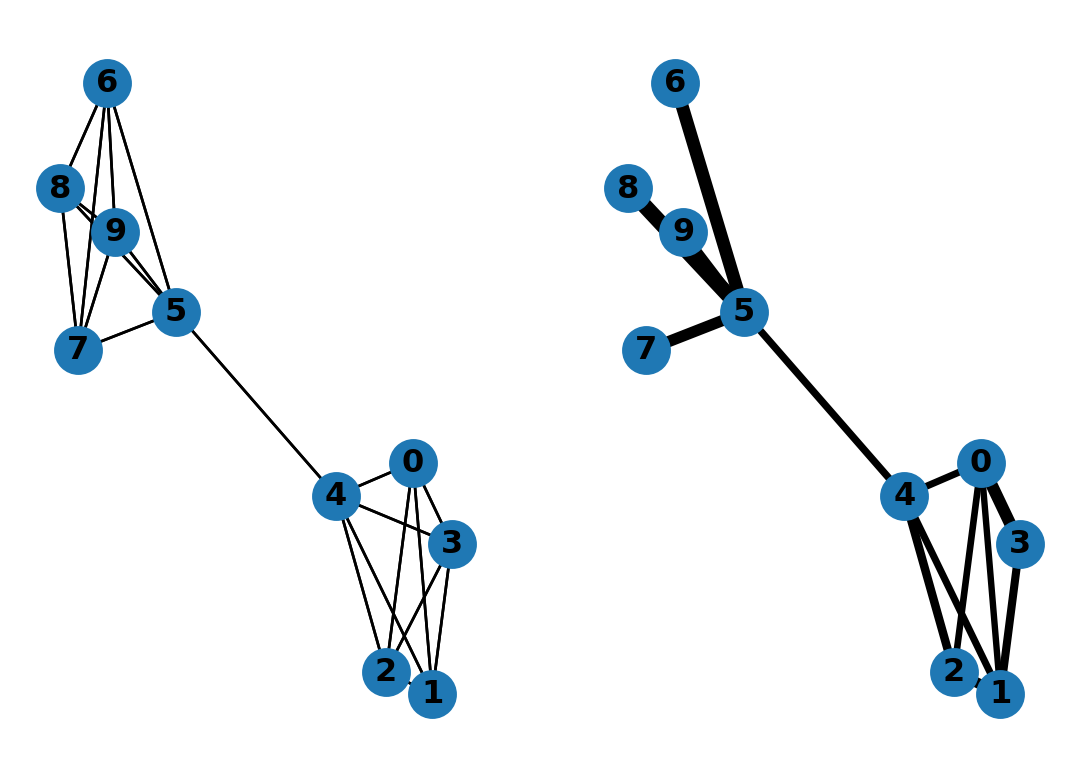
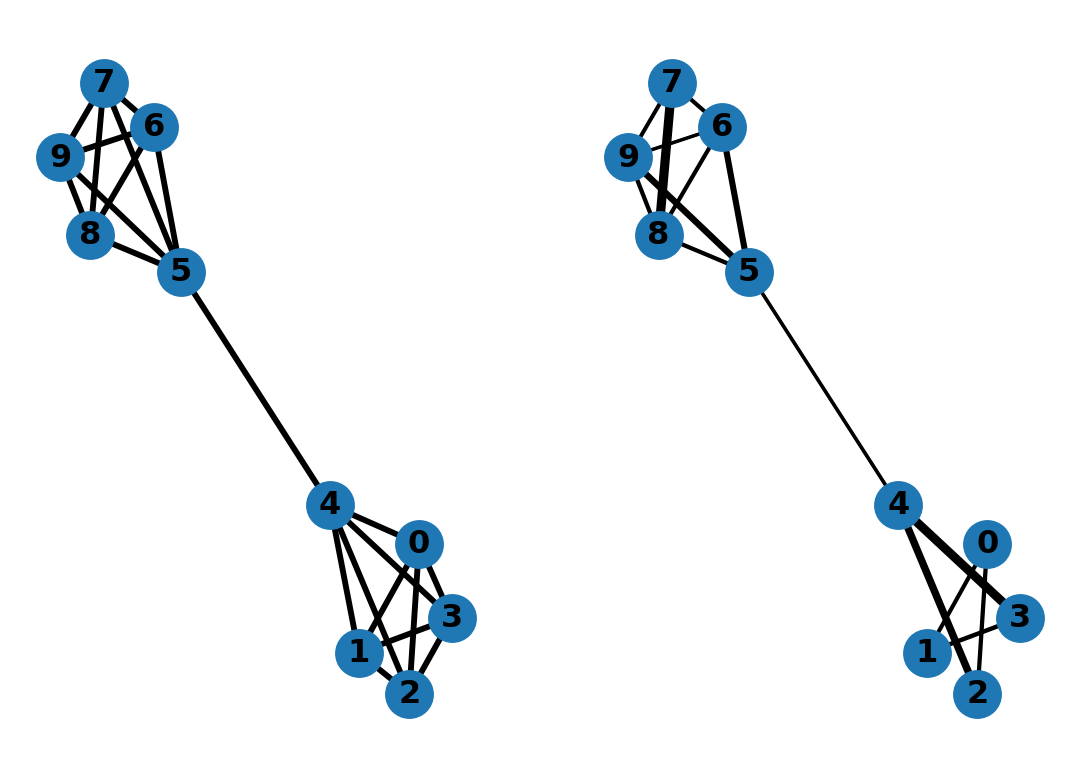
debug code - first correct output

diff --git a/docs/index.html b/docs/index.html
@@ -579,36 +579,70 @@ s \le U_A(v) = \frac{\Delta}{v^T \left((u' I - A)^{-2} - \Delta (u' I - A)^{-1}\
 <section id="experimental-details" class="level3">
 <h3 class="anchored" data-anchor-id="experimental-details">Experimental Details</h3>
 <p>We implemented the algorithm in Python and tested it on a set of graphs. Our package is available <a href="https://github.com/HamidrezaKmK/twice-ramanujan-sparsifiers">here</a> and <a href="#fig-barbell">Figure&nbsp;3</a> demonstrates the results of the algorithm on a barbell graph.</p>
-<div class="cell" data-execution_count="3">
+<div id="fig-barbell" class="quarto-figure quarto-figure-center anchored">
+<figure class="figure">
 <details>
 <summary>Code</summary>
 <div class="sourceCode cell-code" id="cb3"><pre class="sourceCode python code-with-copy"><code class="sourceCode python"><span id="cb3-1"><a href="#cb3-1" aria-hidden="true" tabindex="-1"></a><span class="co"># preliminariy steps to include the package</span></span>
 <span id="cb3-2"><a href="#cb3-2" aria-hidden="true" tabindex="-1"></a><span class="im">import</span> sys</span>
 <span id="cb3-3"><a href="#cb3-3" aria-hidden="true" tabindex="-1"></a><span class="im">import</span> math</span>
-<span id="cb3-4"><a href="#cb3-4" aria-hidden="true" tabindex="-1"></a>sys.path.append(<span class="st">'..'</span>)</span>
-<span id="cb3-5"><a href="#cb3-5" aria-hidden="true" tabindex="-1"></a></span>
-<span id="cb3-6"><a href="#cb3-6" aria-hidden="true" tabindex="-1"></a><span class="co"># importing the package</span></span>
-<span id="cb3-7"><a href="#cb3-7" aria-hidden="true" tabindex="-1"></a><span class="im">from</span> src.TwiceRamanujan <span class="im">import</span> TwiceRamanujan</span>
-<span id="cb3-8"><a href="#cb3-8" aria-hidden="true" tabindex="-1"></a></span>
-<span id="cb3-9"><a href="#cb3-9" aria-hidden="true" tabindex="-1"></a><span class="co"># get the laplacian of a barbell graph</span></span>
-<span id="cb3-10"><a href="#cb3-10" aria-hidden="true" tabindex="-1"></a>g<span class="op">=</span>nx.barbell_graph(<span class="dv">5</span>,<span class="dv">0</span>)</span>
-<span id="cb3-11"><a href="#cb3-11" aria-hidden="true" tabindex="-1"></a>d <span class="op">=</span> <span class="dv">2</span></span>
-<span id="cb3-12"><a href="#cb3-12" aria-hidden="true" tabindex="-1"></a>eps <span class="op">=</span> <span class="dv">2</span> <span class="op">*</span> math.sqrt(d) <span class="op">/</span> (d <span class="op">+</span> <span class="dv">1</span>)</span>
-<span id="cb3-13"><a href="#cb3-13" aria-hidden="true" tabindex="-1"></a><span class="co"># setup a twice-Ramanujan solver on the graph with d = 2</span></span>
-<span id="cb3-14"><a href="#cb3-14" aria-hidden="true" tabindex="-1"></a>tr <span class="op">=</span> TwiceRamanujan(g, d<span class="op">=</span><span class="dv">2</span>, verbose<span class="op">=</span><span class="dv">1</span>)</span>
-<span id="cb3-15"><a href="#cb3-15" aria-hidden="true" tabindex="-1"></a>sparsified_laplacian <span class="op">=</span> tr.sparsify()</span>
-<span id="cb3-16"><a href="#cb3-16" aria-hidden="true" tabindex="-1"></a></span>
-<span id="cb3-17"><a href="#cb3-17" aria-hidden="true" tabindex="-1"></a><span class="co"># draw both graphs</span></span>
-<span id="cb3-18"><a href="#cb3-18" aria-hidden="true" tabindex="-1"></a>tr.juxtapose()</span></code><button title="Copy to Clipboard" class="code-copy-button"><i class="bi"></i></button></pre></div>
+<span id="cb3-4"><a href="#cb3-4" aria-hidden="true" tabindex="-1"></a><span class="im">import</span> networkx <span class="im">as</span> nx</span>
+<span id="cb3-5"><a href="#cb3-5" aria-hidden="true" tabindex="-1"></a>sys.path.append(<span class="st">'..'</span>)</span>
+<span id="cb3-6"><a href="#cb3-6" aria-hidden="true" tabindex="-1"></a></span>
+<span id="cb3-7"><a href="#cb3-7" aria-hidden="true" tabindex="-1"></a><span class="co"># importing the package</span></span>
+<span id="cb3-8"><a href="#cb3-8" aria-hidden="true" tabindex="-1"></a><span class="im">from</span> src.TwiceRamanujan <span class="im">import</span> TwiceRamanujan</span>
+<span id="cb3-9"><a href="#cb3-9" aria-hidden="true" tabindex="-1"></a></span>
+<span id="cb3-10"><a href="#cb3-10" aria-hidden="true" tabindex="-1"></a><span class="co"># get the laplacian of a barbell graph</span></span>
+<span id="cb3-11"><a href="#cb3-11" aria-hidden="true" tabindex="-1"></a>graphs <span class="op">=</span> [nx.barbell_graph(<span class="dv">5</span>,<span class="dv">0</span>), nx.complete_graph(<span class="dv">7</span>)]</span>
+<span id="cb3-12"><a href="#cb3-12" aria-hidden="true" tabindex="-1"></a>ds <span class="op">=</span> [<span class="dv">2</span>, <span class="dv">3</span>]</span>
+<span id="cb3-13"><a href="#cb3-13" aria-hidden="true" tabindex="-1"></a></span>
+<span id="cb3-14"><a href="#cb3-14" aria-hidden="true" tabindex="-1"></a><span class="cf">for</span> g, d <span class="kw">in</span> <span class="bu">zip</span>(graphs, ds):</span>
+<span id="cb3-15"><a href="#cb3-15" aria-hidden="true" tabindex="-1"></a>  </span>
+<span id="cb3-16"><a href="#cb3-16" aria-hidden="true" tabindex="-1"></a>  <span class="co"># calculate epsilon according to d</span></span>
+<span id="cb3-17"><a href="#cb3-17" aria-hidden="true" tabindex="-1"></a>  eps <span class="op">=</span> <span class="dv">2</span> <span class="op">*</span> math.sqrt(d) <span class="op">/</span> (d <span class="op">+</span> <span class="dv">1</span>)</span>
+<span id="cb3-18"><a href="#cb3-18" aria-hidden="true" tabindex="-1"></a></span>
+<span id="cb3-19"><a href="#cb3-19" aria-hidden="true" tabindex="-1"></a>  <span class="co"># setup a twice-Ramanujan solver on the graph with d = 2</span></span>
+<span id="cb3-20"><a href="#cb3-20" aria-hidden="true" tabindex="-1"></a>  tr <span class="op">=</span> TwiceRamanujan(g, d<span class="op">=</span>d, verbose<span class="op">=</span><span class="dv">1</span>)</span>
+<span id="cb3-21"><a href="#cb3-21" aria-hidden="true" tabindex="-1"></a>  sparsified_laplacian <span class="op">=</span> tr.sparsify()</span>
+<span id="cb3-22"><a href="#cb3-22" aria-hidden="true" tabindex="-1"></a></span>
+<span id="cb3-23"><a href="#cb3-23" aria-hidden="true" tabindex="-1"></a>  <span class="co"># draw both graphs</span></span>
+<span id="cb3-24"><a href="#cb3-24" aria-hidden="true" tabindex="-1"></a>  tr.juxtapose()</span>
+<span id="cb3-25"><a href="#cb3-25" aria-hidden="true" tabindex="-1"></a></span>
+<span id="cb3-26"><a href="#cb3-26" aria-hidden="true" tabindex="-1"></a>  <span class="co"># verify</span></span>
+<span id="cb3-27"><a href="#cb3-27" aria-hidden="true" tabindex="-1"></a>  tr.verify(eps<span class="op">=</span>eps)</span></code><button title="Copy to Clipboard" class="code-copy-button"><i class="bi"></i></button></pre></div>
 </details>
 <div class="cell-output cell-output-display">
-<div id="fig-barbell" class="quarto-figure quarto-figure-center anchored">
+<div id="fig-barbell-1" class="quarto-figure quarto-figure-center anchored">
 <figure class="figure">
-<p><img src="index_files/figure-html/fig-barbell-output-1.png" width="540" height="389" class="figure-img"></p>
-<p></p><figcaption class="figure-caption">Figure&nbsp;3: The Twice-Ramanujan sparsifier in action, sparsifiying the barbel graph, edges with more strength correspond to larger weights.</figcaption><p></p>
+<p><img src="index_files/figure-html/fig-barbell-output-1.png" data-ref-parent="fig-barbell" width="540" height="389" class="figure-img"></p>
+<p></p><figcaption class="figure-caption">(a) Checking the algorithm on a barbell graph.</figcaption><p></p>
 </figure>
 </div>
 </div>
+<div class="cell-output cell-output-stdout">
+<pre><code>eps = 2sqrt(d)/(d+1) = 0.9428
+LHS (1 - eps) * L_G &lt;= L_H : we check the minimum eigenvalue of the difference:
+Min eigenvalue of [L_H - (1 - eps) L_G] = 0.00 &gt;= 0
+RHS L_H &lt;= (1 + eps) * L_G : we check the minimum eigenvalue of the difference:
+Min eigenvalue of [(1 + eps) L_G - L_H] = 0.00 &gt;= 0</code></pre>
+</div>
+<div class="cell-output cell-output-display">
+<div id="fig-barbell-2" class="quarto-figure quarto-figure-center anchored">
+<figure class="figure">
+<p><img src="index_files/figure-html/fig-barbell-output-3.png" data-ref-parent="fig-barbell" width="540" height="389" class="figure-img"></p>
+<p></p><figcaption class="figure-caption">(b) Checking the algorithm on a complete graph.</figcaption><p></p>
+</figure>
+</div>
+</div>
+<div class="cell-output cell-output-stdout">
+<pre><code>eps = 2sqrt(d)/(d+1) = 0.8660
+LHS (1 - eps) * L_G &lt;= L_H : we check the minimum eigenvalue of the difference:
+Min eigenvalue of [L_H - (1 - eps) L_G] = -0.00 &gt;= 0
+RHS L_H &lt;= (1 + eps) * L_G : we check the minimum eigenvalue of the difference:
+Min eigenvalue of [(1 + eps) L_G - L_H] = 0.00 &gt;= 0</code></pre>
+</div>
+<p></p><figcaption class="figure-caption">Figure&nbsp;3: The Twice-Ramanujan sparsifier in action edges with more strength correspond to larger weights.</figcaption><p></p>
+</figure>
 </div>
 <p>There were some subtleties in the implementation when numerical issues were encountered. For example, in the algorithm, we need to compute the inverse of <span class="math inline">\(uI - A^{(i)}\)</span> and <span class="math inline">\(A^{(i)} - l I\)</span> for the upper and lower bound values. This introduced a lot of accuracy issues, to circumvent this, we also implemented a binary search-based implementation to find the upper and lower bound for each vector <span class="math inline">\(v_i\)</span>; this turned out to be far superior although it impeded the runtime. You can simply trigger this mode by setting <code>fast=True</code> in the constructor of <code>TwiceRamanujan</code> class.</p>
 </section>
@@ -617,15 +651,87 @@ s \le U_A(v) = \frac{\Delta}{v^T \left((u' I - A)^{-2} - \Delta (u' I - A)^{-1}\
 <h2 class="anchored" data-anchor-id="sparsification-of-complete-graphs">Sparsification of Complete Graphs</h2>
 <section id="expander-graphs" class="level3">
 <h3 class="anchored" data-anchor-id="expander-graphs">Expander Graphs</h3>
-<p>– TODO: recap of expanders</p>
-<p>– TODO: expander mixing lemma</p>
+<p>The expander graph based on literary definition, are the graph have high connectivity or in other words, from every subset, the graph keeps on expanding.In many application like connected computing elements or communication networks,such highly connected components are required but it is always desirable that such connectedness is achieved with sparse constructions. So for example, the complete graph has great expansion, but lacks the sparsity. So when strictly defined, the expanders are the family of the graphs which keeps on expanding with high connectivity but with sparse number of edges. – TODO: recap of expanders There are different definitions which uses different parameters for quantifying expansion</p>
+<p>A. Vertex Expansion- It uses the baselines concept that every vertex is has high number of neighbors and quantifiable parameter is defined on the vertex set, having least value.</p>
+<p>B. Edge Expansion - It measures the connectivity in terms of edges such that number of edges crossing the vertex sets are high when compared with edges internal to both edges. Like Vertex expansion, the quantification is done based on the set having minimum value of measure.</p>
+<p>C. Spectral Expansion- It defined on concept of random walks, which will converge faster if the graph is highly connected. Specifically it is defined in terms of adjacency matrix, where the - expander is defined as the one where are the all eigen values except for the largest are bounded <span class="math display">\[
+-\lambda \leq \underset{i\neq 1}{\lambda_i} \leq \lambda
+\]</span></p>
+</section>
+<section id="expander-mixing-lemma" class="level3">
+<h3 class="anchored" data-anchor-id="expander-mixing-lemma">Expander Mixing Lemma</h3>
+<p>The expander mixing lemma suggest that the edges are evenly distributed across edges. In particular, it is associated with quasirandomness which states that edges going between every two sets S,T are closure to the average expected value. <span class="math display">\[
+  |E(S,T)-\frac{d|S||T|}{n}|\leq \lambda \sqrt{|d||n|}
+\]</span></p>
 </section>
 <section id="ramanujan-bounds" class="level3">
 <h3 class="anchored" data-anchor-id="ramanujan-bounds">Ramanujan Bounds</h3>
+<p>As seen in the expander mixing lemma, the lower the value of <span class="math inline">\(\lambda\)</span>, the cross edge weight more close to the average, which means edges are uniformly distributed. A bound known as alan-bopanna, states lower limit for second-eigenvalue of d-regular graph G_n.&nbsp;The bound is as given below <span class="math display">\[
+    \lambda \geq 2\sqrt{d-1} − o(1)\:\text{ As n-&gt;} \infty
+\]</span> And a connected d-regular graph is Ramanujan graph. <span class="math display">\[
+    \lambda \leq 2\sqrt{d-1} \
+\]</span> So ramanujan graph will be having lowest value for second largest eigenvalue. As shown in expander mixing lemma, the lower the value of second largest eigenvalue the more is uniform distribution of edges. So ramanujan graph will be best known expander. Thus as known as the d-regular expanders can approximate the complete graphs, the ramanujan graphs will be best sparsifiers as well.</p>
 </section>
 <section id="the-twice-ramanujan-sparsifier" class="level3">
 <h3 class="anchored" data-anchor-id="the-twice-ramanujan-sparsifier">The Twice Ramanujan Sparsifier</h3>
-<p>– TODO: illustration of what happens in the algorithm iteratively on a complete graph.</p>
+<p>The twice ramanujan sparsifier can approximate the complete graph with weaker but similar bound. First since the graph is non-regular, it will be proven that the graph has an approximate mixing lemma which describes edge distribution ::: {#Expander Mixing Property} Let <span class="math inline">\(L_h(V,E,w)\)</span> be a graph that <span class="math inline">\((1+\epsilon)\)</span> approximates the complete graph <span class="math inline">\(L_g\)</span> then for every pair of disjoint sets S and T, <span class="math display">\[
+  |E(S,T)-(1+\epsilon/2)|S||T||\leq n(\epsilon/2) \sqrt{|d||n|}
+\]</span> :::</p>
+<div class="Proof">
+<p>Thrugh the definition we have <span class="math display">\[
+  -\frac{\epsilon}{2} L_G \preceq L_H-(1+\epsilon/2)L_G \preceq \frac{\epsilon}{2} L_G
+\]</span></p>
+<p>So it is possible to write it as <span class="math display">\[
+  L_H=(1+\epsilon/2)L_G+X_M
+\]</span> where <span class="math inline">\(X_M\)</span> is calculated based on the concept of norm with it having max norm as <span class="math inline">\(\frac{\epsilon}{2} ||L_G|| \leq n\epsilon/2\)</span> Now consider x,y as characterstic vectos of set S,T respectively. As we know <span class="math inline">\(-E(S,T) = x^TL_Hy\)</span> we will get the weight crossing the two sets. And we consider with complete graph, the weight is uniformly distributed <span class="math display">\[x^TL_Gy= -|S||T|\]</span> Substituting back <span class="math display">\[x^TL_Hy = (1+\frac{\epsilon}{2}x^TL_Gy+x^TX_my)\]</span> <span class="math display">\[x^TL_Hy = (1+\frac{\epsilon}{2}|S||T|+x^TX_my)\]</span> <span class="math display">\[-(E(S,T) -(1+\frac{\epsilon}{2}|S||T|)= x^TX_my)\]</span> Taking modulus on both sides <span class="math display">\[|E(S,T) -(1+\frac{\epsilon}{2})|S||T||= |x^TX_my|\]</span> Consider right side and apply cauchy-schwarz inequality <span class="math display">\[|x^TX_my|\leq||X_m||||x||||y||\leq n\frac{\epsilon}{2}\sqrt{|S||T|}\]</span> Substituting back <span class="math display">\[|E(S,T) -(1+\frac{\epsilon}{2})| \leq n\frac{\epsilon}{2}\sqrt{|S||T|}\]</span></p>
+<p>So the final aspect is the bound, which as stated earlier similar to ramanujan graph</p>
+</div>
+<p>::: {.Bound} If G represents complete graph and H be a weighted graph with same number of vertex with one vertex with degree d. If H is a sparsifier for the graph and approximates the complete graph with <span class="math display">\[L_G \preceq L_H \preceq \kappa L_G\]</span> then <span class="math display">\[
+\kappa \geq 1+2/\sqrt(d)-O(\sqrt(d)/n)
+\]</span></p>
+<p>:::proof The key aspect of the proof is around the fact that if we consider the rayleigh coefficient ratio of <span class="math inline">\(L_H\)</span> for two different vectors. It can be at max <span class="math inline">\(\kappa\)</span> due to sparsifier definition.</p>
+<p>Now for the construction,consider the d-degree vertex, be <span class="math inline">\(v_0\)</span> and its neighbours are <span class="math inline">\(v_1 ....v_n\)</span>. Now let weight of the edge connecting that neighbor to the <span class="math inline">\(v_0\)</span> be <span class="math inline">\(w_i\)</span> and weight to all the rest vertices excluding <span class="math inline">\(v_0\)</span> neighbors be <span class="math inline">\(\delta_i\)</span>.</p>
+<p>So if we define the characteristivectors</p>
+<p><span class="math display">\[ x(v_i)=\begin {cases}
+      1 &amp; v_i\in v_0 \\
+      \frac{1}{\sqrt{d}} &amp; v_i\in {v_1,...v_d} \\
+      0 &amp; v_i\notin {v_0,v_1...v_d}
+   \end{cases}
+\]</span></p>
+<p><span class="math display">\[ y(v_i)=\begin {cases}
+      1 &amp; v_i\in v_0 \\
+      -\frac{1}{\sqrt{d}} &amp; v_i\in {v_1,...v_d} \\
+      0 &amp; v_i\notin {v_0,v_1...v_d}
+   \end{cases}
+\]</span> Now taking quadratic forms with respect to these and using edge definition of laplacian <span class="math display">\[
+x^TL_Hx = \sum^{d}_{i=1}w_i(1-1/\sqrt(d))^2+\sum^d_{i=1}\delta_i(1/\sqrt(d)-0)^2
+\]</span> <span class="math display">\[
+= \sum^{d}_{i=1}w_i-\sum^{d}_{i=1}\frac{\delta_i+w_i}{d}-2\sum^d_{i=1}\frac{w_i}{\sqrt{d}}
+\]</span></p>
+<p>Similarly for y <span class="math display">\[
+y^TL_Hy = \sum^{d}_{i=1}w_i+\sum^{d}_{i=1}\frac{\delta_i+w_i}{d}+2\sum^d_{i=1}\frac{w_i}{\sqrt{d}}
+\]</span> Now taking ratio <span class="math display">\[\frac{y^TL_Hy}{x^TL_Hx}=\frac{1+\frac{1}{\sqrt{d}}\frac{2\sum^d_{i=1}w_i}{\sum^{d}_{i=1}w_i+\sum^{d}_{i=1}\frac{\delta_i+w_i}{d}}}{1-\frac{1}{\sqrt{d}}\frac{2\sum^d_{i=1}w_i}{\sum^{d}_{i=1}w_i+\sum^{d}_{i=1}\frac{\delta_i+w_i}{d}}}\]</span></p>
+<p>Now consider the lowean bound L_H with respect. If we consider a vertex and its characteristic vector with respect to its neigbours. The quadratic form, which will be weighted degree of the graph, will be bounded between n <span class="math inline">\(n\kappa\)</span>. So applying <span class="math display">\[
+\frac{2\sum^d_{i=1}w_i}{\sum^{d}_{i=1}w_i+\sum^{d}_{i=1}\frac{\delta_i+w_i}{d}}= \frac{2}{1+\frac{\sum^{d}_{i=1}\frac{\delta_i+w_i}{d}}{\sum^d_{i=1}w_i}} \geq \frac{2}{1+\kappa}
+\]</span> thus <span class="math display">\[\frac{y^TL_Hy}{x^TL_Hx}\geq \frac{1+\frac{1}{\sqrt{d}}\frac{2}{1+\kappa}}{1-\frac{1}{\sqrt{d}}\frac{2}{1+\kappa}}
+\]</span> Since quadratic form for L_H, lowest possible value n and highest possible value <span class="math inline">\(n\kappa\)</span> is only true foor vecotr orthogonal to all single constant vector. So transforming variables <span class="math display">\[
+||x^*|| = ||x||^2-(&lt;x,1/\sqrt{n}&gt;)^2 = 2+\frac{(1+\sqrt{d})^2}{n}
+\]</span> <span class="math display">\[
+||x^*|| = ||x||^2-(&lt;x,1/\sqrt{n}&gt;)^2 = 2+\frac{(1-\sqrt{d})^2}{n}
+\]</span> <span class="math display">\[
+||y^*|| = ||y||^2-(&lt;y,1/\sqrt{n}&gt;)^2 = 2-\frac{(1-\sqrt{d})^2}{n}
+\]</span> <span class="math display">\[
+taking ratio
+\frac{||x^*||}{||y^*||} = 1- \frac{4\sqrt{d}}{2-\frac{(1-\sqrt{d})^2}{n}}
+\]</span> <span class="math display">\[
+\frac{||x^*||}{||y^*||} = 1- O(\frac{\sqrt{d}}{n})
+\]</span> Changing variables for quadratic form ratio</p>
+<p><span class="math display">\[\frac{y^TL_Hy}{x^TL_Hx}\frac{||x^*||}{||y^*||}\geq \frac{1+\frac{1}{\sqrt{d}}\frac{2}{1+\kappa}}{1-\frac{1}{\sqrt{d}}\frac{2}{1+\kappa}}(1- O(\frac{\sqrt{d}}{n}))
+\]</span> maximum value for left hand side due to lowean bound is <span class="math inline">\(\kappa\)</span> <span class="math display">\[\kappa\geq \frac{1+\frac{1}{\sqrt{d}}\frac{2}{1+\kappa}}{1-\frac{1}{\sqrt{d}}\frac{2}{1+\kappa}}(1- O(\frac{\sqrt{d}}{n}))
+\]</span> <span class="math display">\[\frac{y^TL_Hy}{x^TL_Hx}\frac{||x^*||}{||y^*||}\geq \frac{1+\frac{1}{\sqrt{d}}\frac{2}{1+\kappa}}{1-\frac{1}{\sqrt{d}}\frac{2}{1+\kappa}}(1- O(\frac{\sqrt{d}}{n}))
+\]</span> which finally transforms to <span class="math display">\[
+\kappa \geq 1+2/\sqrt(d)-O(\sqrt(d)/n)
+\]</span></p>
 </section>
 <section id="references" class="level3">
 <h3 class="anchored" data-anchor-id="references">References</h3>

diff --git a/src/TwiceRamanujan.py b/src/TwiceRamanujan.py
@@ -93,7 +93,6 @@ class TwiceRamanujan:
                 s *= 2
 
             s_L, s_R = 0, s
-            # print("searching in ", s_L, s_R)
             for _ in range(100):
                 s = (s_L + s_R) / 2
                 if check(s):
@@ -172,6 +171,15 @@ class TwiceRamanujan:
                 ret = False
         return ret
 
+    def _check_in_range(self, A, B, C):
+        a1 = np.min(np.linalg.eigh(B - A)[0])
+        b1 = np.min(np.linalg.eigh(C - B)[0])
+        if self.verbose >= 1:
+            print("checking:")
+            print(f"\tminimum eigenvalue of LHS: {a1}")
+            print(f"\tminimum eigenvalue of RHS: {b1}")
+        return a1 >= 0 and b1 >= 0
+
     def sparsify(self):
         self.do_reduction()
 
@@ -199,19 +207,28 @@ class TwiceRamanujan:
             iterable = tqdm(range(d * n))
         else:
             iterable = range(d * n)
+
+        scaling_factor = (math.sqrt(d) - 1) / (n * (d + 1) * math.sqrt(d))
         for _ in iterable:
-            succ = False
+            cand = (_, _, _, _, -math.inf)
             for e, v in zip(self.edges, self.edge_vectors):
                 lb = self.lower_bound_function(A, l, delta_l, v)
                 ub = self.upper_bound_function(A, u, delta_u, v)
-
+                if ub - lb > 0 and ub - lb > cand[2]:
+                    cand = (v, e, lb, ub, ub - lb)
+                    if self.fast_settings:
+                        # if set on fast setting then just pick the first edge
+                        break
+            if cand[-1] < 0:
+                raise Exception("Cannot pick an edge!")
+            else:
+                v, e, lb, ub, _ = cand
                 if lb <= ub:
                     s = (lb + ub) / 2
-                    # s = ub - self.eps
                     A = A + s * v @ v.T
 
                     a, b = e
-                    w = self.graph[a][b]["weight"] * s / n / (d + 1)
+                    w = self.graph[a][b]["weight"] * s * scaling_factor
 
                     # if edge already exists, add the weight
                     if self.sparsified_graph.has_edge(a, b):
@@ -223,18 +240,15 @@ class TwiceRamanujan:
                         print(
                             f"picked the edge between {a} and {b} with weight {w:.2f}"
                         )
-                    succ = True
-                    break
-            # It should succeed at least once
-            # exit(0)
-            assert succ, "No edge was picked"
             l += delta_l
             u += delta_u
 
-        if self.verbose > 3:
-            print("Final edge weights:")
-            for a, b in self.sparsified_graph.edges:
-                print(a, b, self.sparsified_graph[a][b]["weight"])
+        # calculate the pseudo-inverse of self.L
+        eig_vals, eig_vecs = np.linalg.eigh(self.L)
+        eig_vals[eig_vals < self.eps] = 0
+        L_sqrt = eig_vecs @ np.diag(np.sqrt(eig_vals)) @ eig_vecs.T
+        self.accurate_laplacian = L_sqrt @ (scaling_factor * A) @ L_sqrt
+
         return self.sparsified_graph
 
     def juxtapose(self, with_verify=False):
@@ -242,7 +256,9 @@ class TwiceRamanujan:
         subax1 = plt.subplot(121)
         nx.draw(self.graph, pos, with_labels=True, font_weight="bold")
         for edge in self.graph.edges(data="weight"):
-            nx.draw_networkx_edges(self.graph, pos, edgelist=[edge], width=edge[2])
+            nx.draw_networkx_edges(
+                self.graph, pos, edgelist=[edge], width=2.2 * edge[2]
+            )
         if self.sparsified_graph is None:
             raise ValueError("Sparsify the graph first")
         subax2 = plt.subplot(122)
@@ -250,29 +266,34 @@ class TwiceRamanujan:
 
         for edge in self.sparsified_graph.edges(data="weight"):
             nx.draw_networkx_edges(
-                self.sparsified_graph, pos, edgelist=[edge], width=edge[2]
+                self.sparsified_graph, pos, edgelist=[edge], width=2.2 * edge[2]
             )
 
         plt.show()
 
-    def verify(self, eps=1e-3):
+    def verify(self, eps=1e-3, use_accurate_laplacian=True):
         # verify that the sparsified graph indeed approximates the laplacian
         # get the laplacian of self.graph
         L = nx.laplacian_matrix(self.graph).toarray()
+
         # get the laplacian of self.sparsified_graph
-        L_sparsified = nx.laplacian_matrix(self.sparsified_graph).toarray()
+        if use_accurate_laplacian:
+            L_sparsified = self.accurate_laplacian
+        else:
+            L_sparsified = nx.laplacian_matrix(self.sparsified_graph).todense()
 
         a1 = np.min(np.linalg.eigh(L_sparsified - (1 - eps) * L)[0])
         b1 = np.min(np.linalg.eigh((1 + eps) * L - L_sparsified)[0])
         if self.verbose >= 1:
+            print(f"eps = 2sqrt(d)/(d+1) = {eps:.4f}")
             print(
                 "LHS (1 - eps) * L_G <= L_H : we check the minimum eigenvalue of the difference:"
             )
-            print("Min eigenvalue = ", a1)
+            print(f"Min eigenvalue of [L_H - (1 - eps) L_G] = {a1:.2f} >= 0")
             print(
                 "RHS L_H <= (1 + eps) * L_G : we check the minimum eigenvalue of the difference:"
             )
-            print("Min eigenvalue = ", b1)
+            print(f"Min eigenvalue of [(1 + eps) L_G - L_H] = {b1:.2f} >= 0")
 
         return a1 > -self.eps and b1 > -self.eps
 
@@ -332,9 +353,10 @@ class TwiceRamanujan:
 if "__main__" == __name__:
     # L=Clique(3).laplacian()
     d = 2
-    g = nx.barbell_graph(5, 0)
-    TR = TwiceRamanujan(g, d=d, verbose=1)
+    # g = nx.barbell_graph(5, 0)
+    g = nx.complete_graph(7)
+    TR = TwiceRamanujan(g, d=d, verbose=2)
     L_s = TR.sparsify()
     # TR.ellipse()
     TR.juxtapose(with_verify=True)
-    TR.verify(eps=2 * math.sqrt(d) / (d + 1))
+    TR.verify(eps=2 * math.sqrt(d) / (d + 1), use_accurate_laplacian=False)
